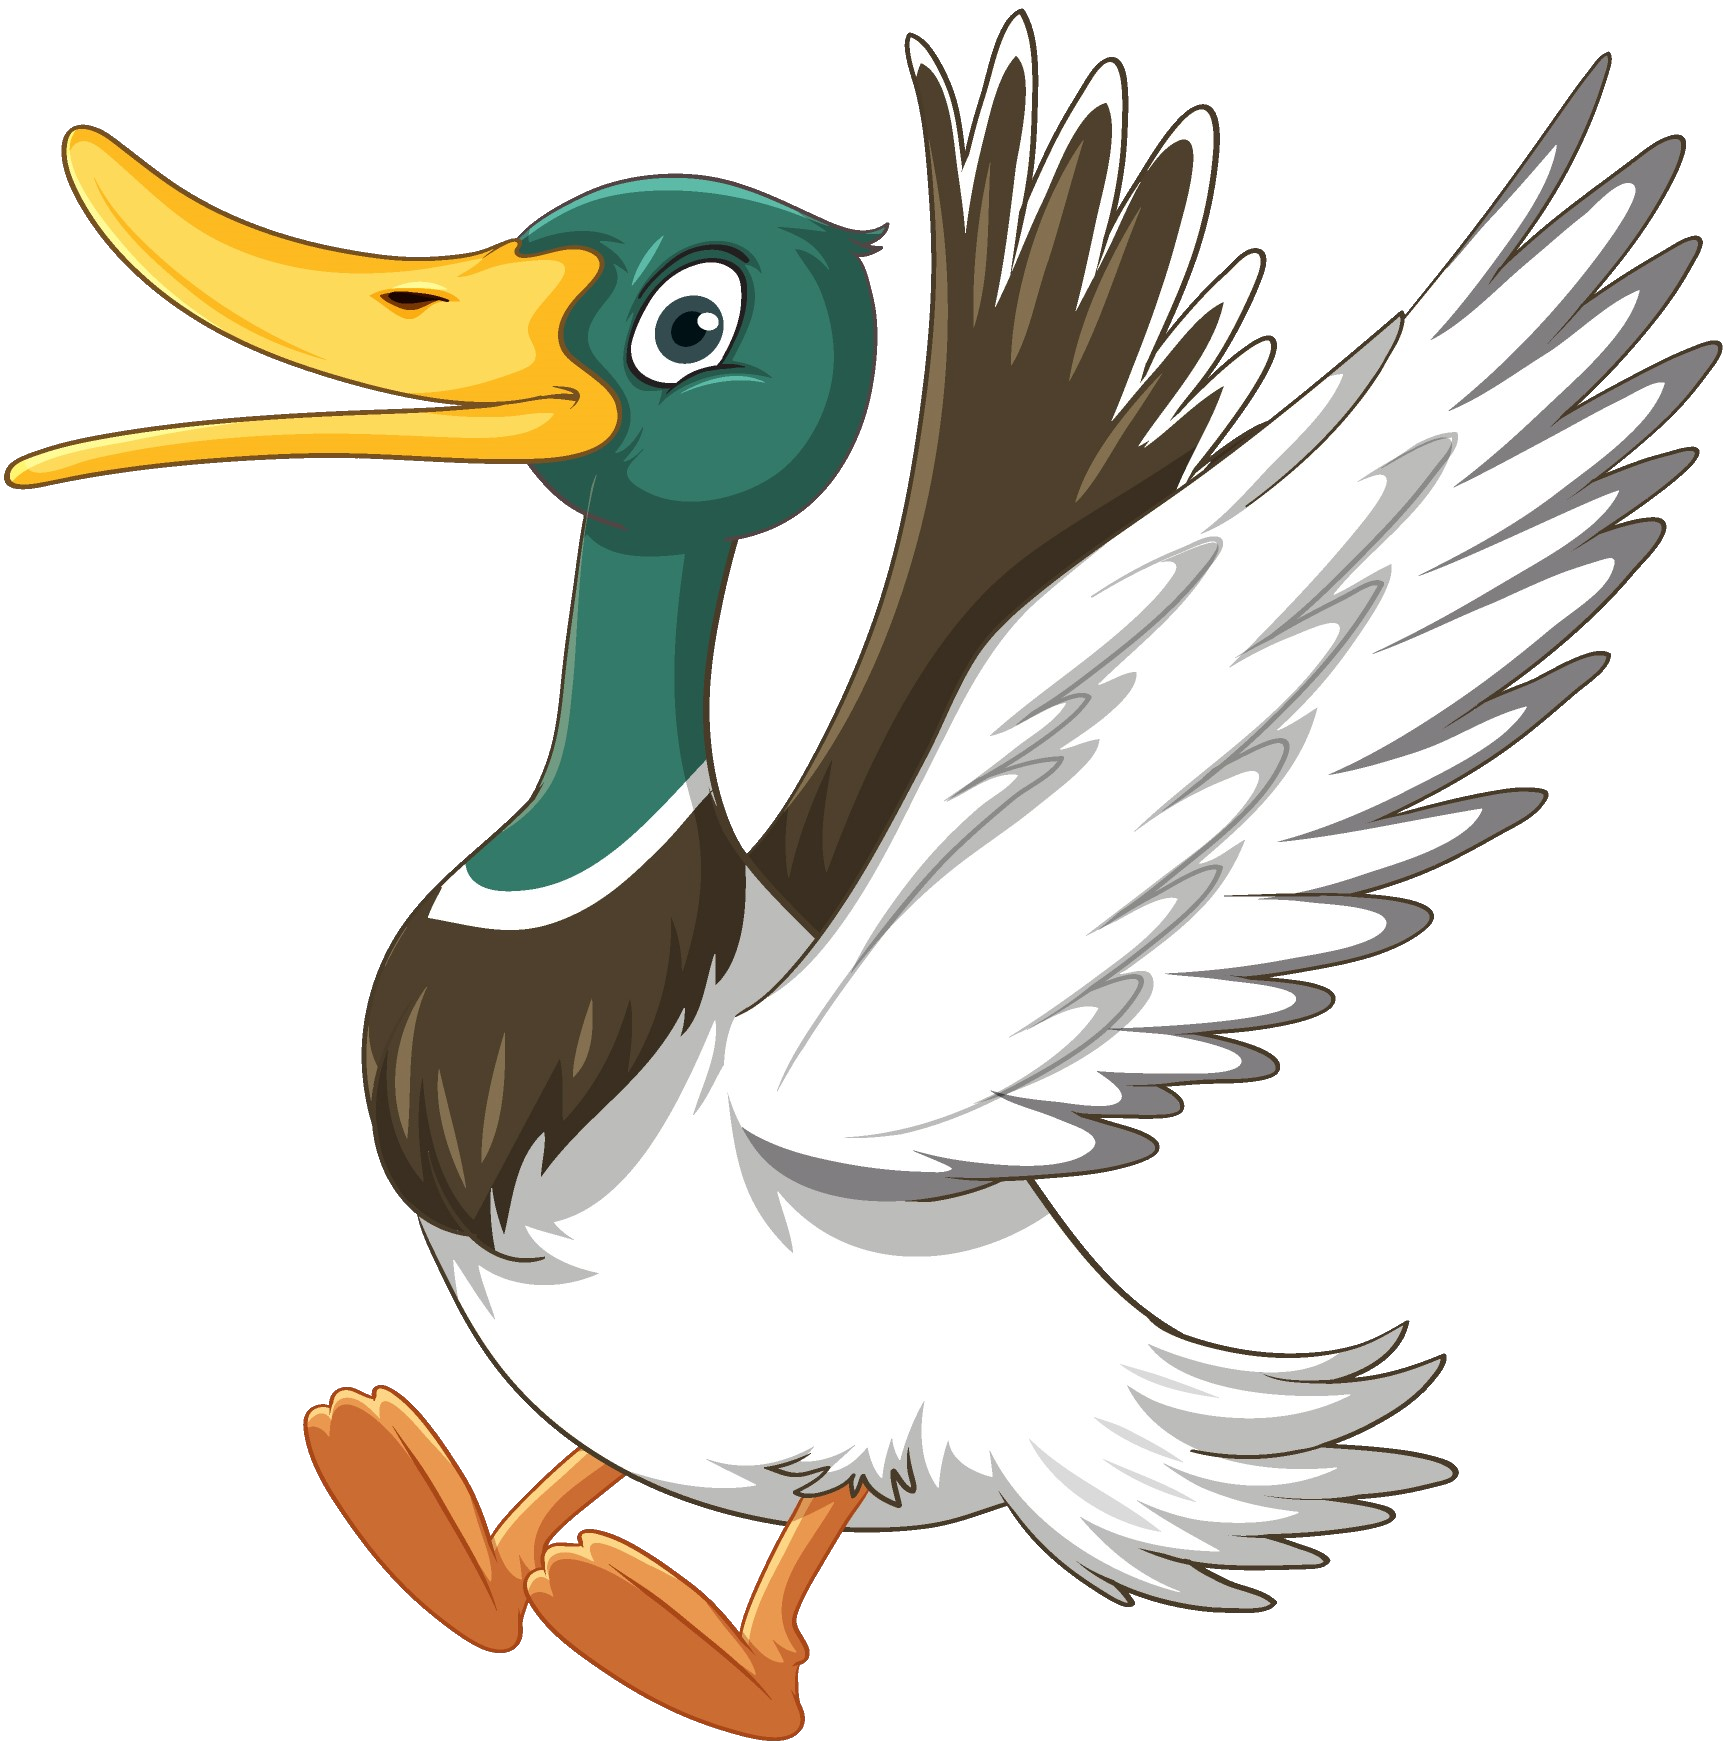
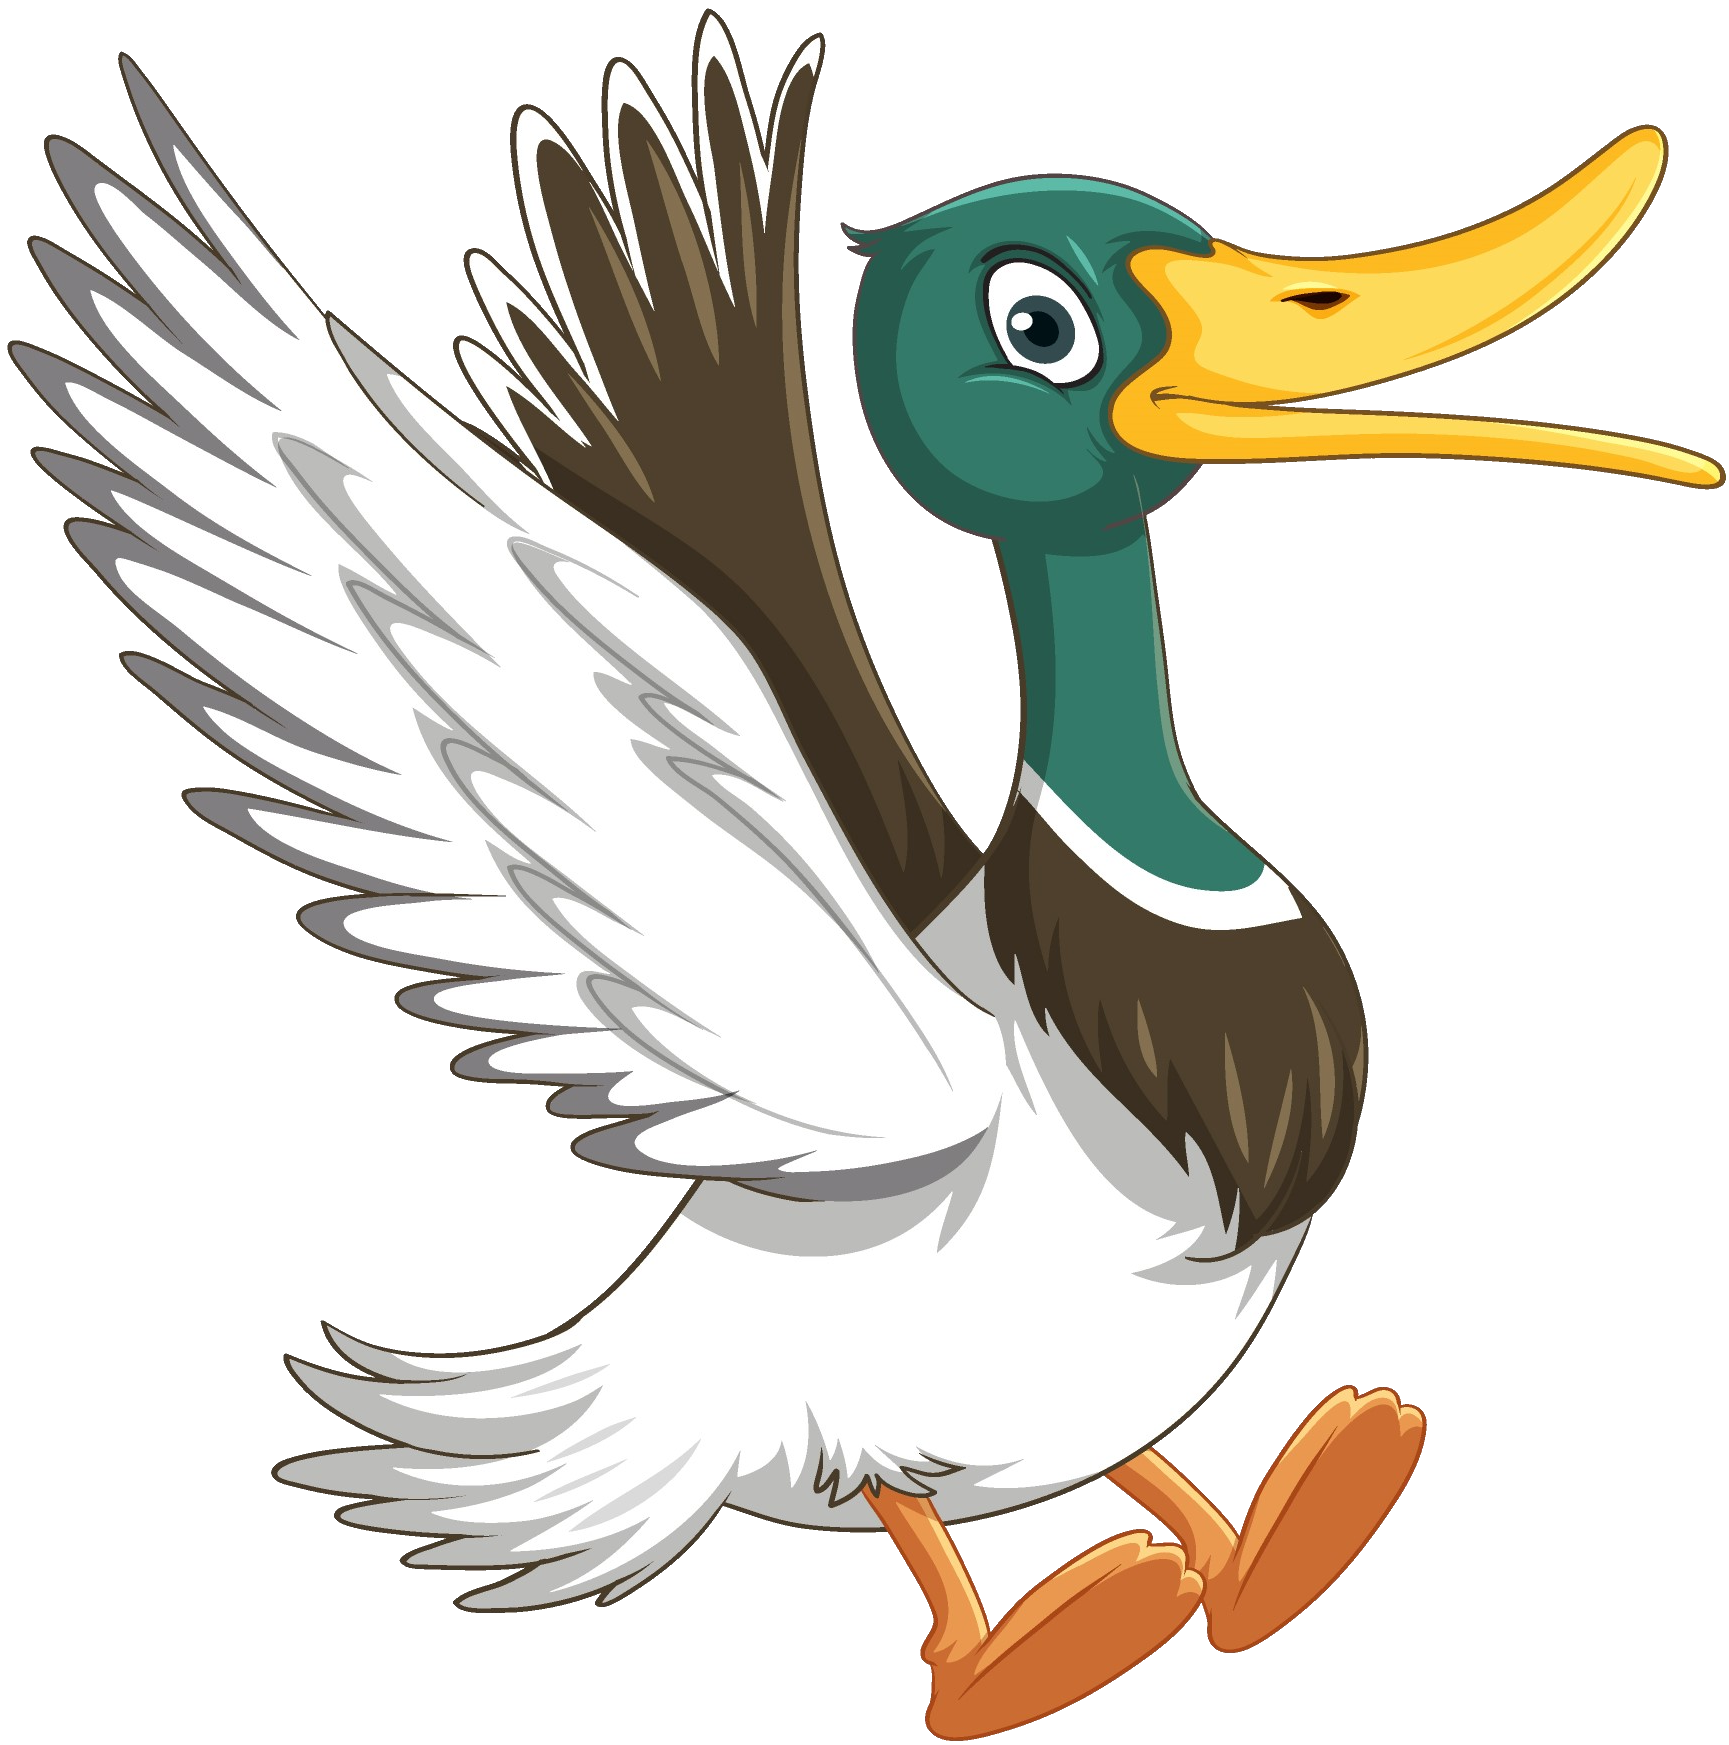
Tilføjet basic animation
Har tilføjet den basic animation til de 3 dyr. Har lavet 3 forskellige keyframes sådan at de 3 elementer starter og slutter forskellige steder på siden.

diff --git a/animation.css b/animation.css
@@ -1,0 +1,99 @@
+/* ===================
+    Duck animation
+====================== */
+
+.duck1_move-left {
+  animation-name: duck_move-left;
+  animation-delay: 5s;
+  animation-duration: 11s;
+  animation-timing-function: linear;
+  animation-iteration-count: infinite;
+  animation-fill-mode: backwards;
+}
+.duck2_move-left {
+  animation-name: duck_move-left;
+  animation-delay: 2s;
+  animation-duration: 9s;
+  animation-timing-function: linear;
+  animation-iteration-count: infinite;
+  animation-fill-mode: backwards;
+}
+.duck3_move-left {
+  animation-name: duck_move-left;
+  animation-duration: 10s;
+  animation-delay: 12s;
+  animation-timing-function: linear;
+  animation-iteration-count: infinite;
+  animation-fill-mode: backwards;
+}
+
+@keyframes duck_move-left {
+  0% {
+    transform: translate(-450%, 0);
+  }
+  100% {
+    transform: translate(600%, 0);
+  }
+}
+
+/* ===================
+    Goose animation
+====================== */
+
+.goose1_move_left {
+  animation-name: goose_move-left;
+  animation-duration: 13s;
+  animation-delay: 15s;
+  animation-timing-function: linear;
+  animation-iteration-count: infinite;
+  animation-fill-mode: backwards;
+}
+
+.goose2_move_left {
+  animation-name: goose_move-left;
+  animation-duration: 8s;
+  animation-delay: 8s;
+  animation-timing-function: linear;
+  animation-iteration-count: infinite;
+  animation-fill-mode: backwards;
+}
+
+@keyframes goose_move-left {
+  0% {
+    transform: translate(-600%, 0);
+  }
+  100% {
+    transform: translate(300%, 0);
+  }
+}
+
+/* =================
+    Dog animation
+==================== */
+
+.dog1_move_left {
+  animation-name: dog_move-left;
+  animation-duration: 13s;
+  animation-delay: 20s;
+  animation-timing-function: linear;
+  animation-iteration-count: infinite;
+  animation-fill-mode: backwards;
+}
+
+.dog2_move_left {
+  animation-name: dog_move-left;
+  animation-duration: 6s;
+  animation-delay: 15s;
+  animation-timing-function: linear;
+  animation-iteration-count: infinite;
+  animation-fill-mode: backwards;
+}
+
+@keyframes dog_move-left {
+  0% {
+    transform: translate(-150%, 0);
+  }
+  100% {
+    transform: translate(400%, 0);
+  }
+}

diff --git a/index.html b/index.html
@@ -14,49 +14,49 @@
       <div id="game">
         <div id="game_background"></div>
         <div id="game_elements">
-          <div id="duck1_container">
+          <div id="duck1_container" class="duck1_move-left">
             <img
               src="./img/duck-flying.png"
               alt="flying duck"
               id="duck1_sprite"
             />
           </div>
-          <div id="duck2_container">
+          <div id="duck2_container" class="duck2_move-left">
             <img
               src="./img/duck-flying.png"
               alt="flying duck"
               id="duck2_sprite"
             />
           </div>
-          <div id="duck3_container">
+          <div id="duck3_container" class="duck3_move-left">
             <img
               src="./img/duck-flying.png"
               alt="flying duck"
               id="duck3_sprite"
             />
           </div>
-          <div id="goose1_container">
+          <div id="goose1_container" class="goose1_move_left">
             <img
               src="./img/goose-flying.png"
               alt="flying goose"
               id="goose1_sprite"
             />
           </div>
-          <div id="goose2_container">
+          <div id="goose2_container" class="goose2_move_left">
             <img
               src="./img/goose-flying.png"
               alt="flying goose"
               id="goose2_sprite"
             />
           </div>
-          <div id="dog1_container">
+          <div id="dog1_container" class="dog1_move_left">
             <img
               src="./img/hunting-dog.png"
               alt="hunting dog"
               id="dog1_sprite"
             />
           </div>
-          <div id="dog2_container">
+          <div id="dog2_container" class="dog2_move_left">
             <img
               src="./img/hunting-dog.png"
               alt="hunting dog"

diff --git a/style.css b/style.css
@@ -1,6 +1,7 @@
 body {
   margin: 0;
 }
+
 img {
   width: 100%;
 }
@@ -18,11 +19,6 @@ img {
 
   grid-template: 100% / 100%;
 }
-#game_elements {
-  position: relative;
-  overflow: hidden;
-  grid-area: 1/1;
-}
 
 #game_background {
   grid-area: 1/1;
@@ -31,12 +27,21 @@ img {
   background-size: cover;
 }
 
+/* =====================
+    Alle game elements
+======================== */
+
+#game_elements {
+  position: relative;
+  overflow: hidden;
+  grid-area: 1/1;
+}
+
 #duck1_container {
   position: absolute;
   width: 12%;
   top: 21%;
   left: 40%;
-  transform: scaleX(-1);
 }
 
 #duck2_container {
@@ -44,14 +49,12 @@ img {
   width: 12%;
   top: 41%;
   left: 31%;
-  transform: scaleX(-1);
 }
 #duck3_container {
   position: absolute;
   width: 12%;
   top: 62%;
   left: 36%;
-  transform: scaleX(-1);
 }
 
 #goose1_container {
@@ -59,31 +62,31 @@ img {
   width: 14%;
   top: 27%;
   left: 70%;
-  transform: scaleX(-1);
 }
 #goose2_container {
   position: absolute;
   width: 14%;
   top: 55%;
   left: 60%;
-  transform: scaleX(-1);
 }
 
 #dog1_container {
   position: absolute;
   width: 25%;
-  top: 70%;
-  left: 8%;
-  transform: scaleX(-1);
+  top: 33%;
+  left: 3%;
 }
 
 #dog2_container {
   position: absolute;
   width: 25%;
-  top: 33%;
-  left: 3%;
-  transform: scaleX(-1);
+  top: 70%;
+  left: 8%;
 }
+
+/* =====================
+    Alle ui elements
+======================== */
 
 #game_ui {
   position: relative;
